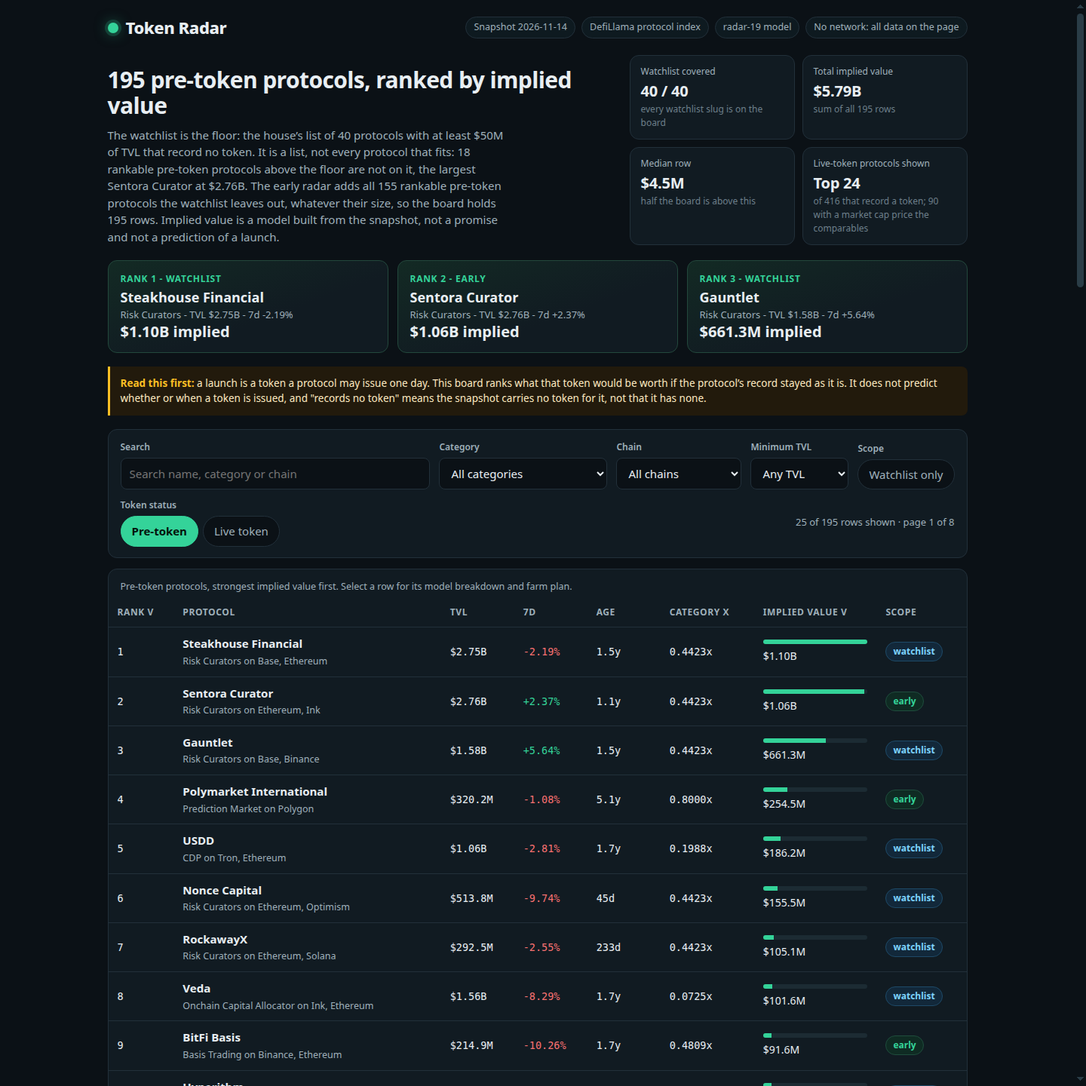
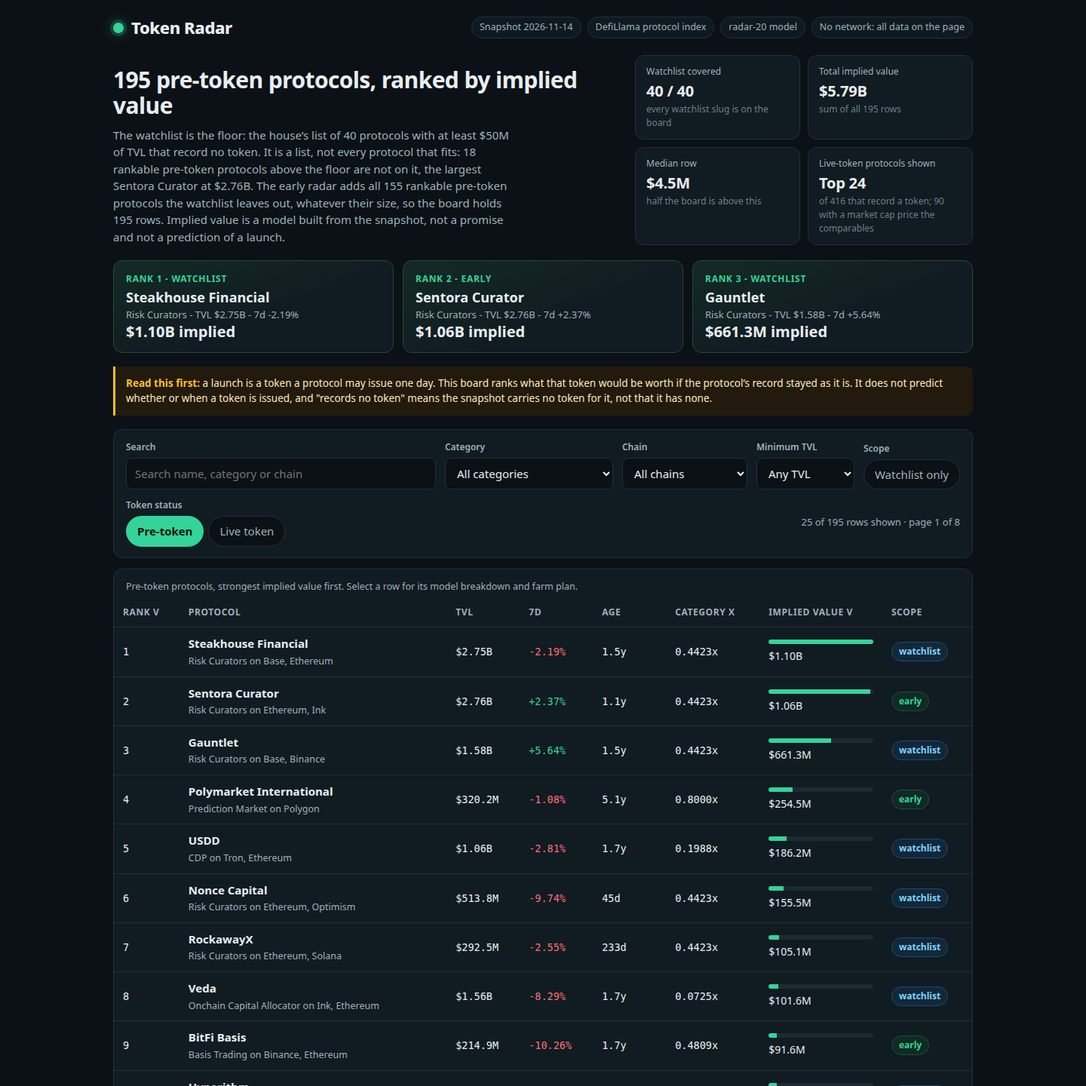
Token Radar radar-20: fix wrong-asset farm plans — CDP collateral per protocol, plus avETH, Origami, Boros, Granite, Solv and Exponent

diff --git a/lib/model.ts b/lib/model.ts
@@ -1,4 +1,4 @@
-// Token Radar's model (radar-19): one sealed snapshot in, one ranked board out.
+// Token Radar's model (radar-20): one sealed snapshot in, one ranked board out.
 //
 // The board covers every slug in the snapshot's watchlist (the floor, never a
 // ceiling) plus every other rankable pre-token protocol the watchlist leaves
@@ -122,7 +122,7 @@ export const MODEL: ModelConstants = {
 };
 
 /** The model's version label: the dashboard names it. */
-export const MODEL_VERSION = 'radar-19';
+export const MODEL_VERSION = 'radar-20';
 
 /** How many live-token protocols the Live token view carries, by market cap. */
 export const LIVE_ROWS = 24;
@@ -512,6 +512,14 @@ function actionFor(p: SnapshotProtocol, capital: number, chain: string): string 
   if (c.includes('collateral market')) return `Deposit $${capital} of wstETH into a ${name} vault on ${chain}, delegate the collateral to an operator securing a network, and keep the vault shares in your wallet.`;
   if (c.includes('interest rate')) return `Deposit $${capital} of USDC as margin on ${name} on ${chain} and open one small long or short position on a funding-rate market, then hold it to maturity.`;
   if (c.includes('uncollateralized')) return `Deposit $${capital} of USDC into the ${name} credit market on ${chain} to fund uncollateralized loans and keep the yield-bearing receipt token in your wallet.`;
+  // A CDP takes the collateral its own vaults accept, never a stablecoin
+  // by default: seven of the board's CDP rows are corrected in
+  // PLAN_CORRECTIONS below (Felix takes HYPE, Bucket SUI, BIMA and BTCFi
+  // BTC, Kava Mint BTC, Monolith ETH, Swan DAO wstETH), and the eighth,
+  // STRATO, stays on this wording because its own litepaper lists USDC as
+  // an accepted CDP collateral at 90% LTV — the one CDP row where the
+  // generic asset is genuinely accepted. A lender takes USDC the same way:
+  // supplying a stablecoin to a lending market is the standard action.
   if (c.includes('lend') || c.includes('cdp') || c.includes('collateral')) return `Supply $${capital} of USDC to ${name} on ${chain} as collateral and borrow a small amount against it, then repay the borrow.`;
   if (c === 'dexs') return `Provide $${capital} of liquidity to ${name}'s main pool on ${chain} in a balanced pair and keep the position open.`;
   // A leveraged vault is not a pool: 3F loops tokenized RWAs through
@@ -933,6 +941,138 @@ const PLAN_CORRECTIONS: Record<string, PlanCorrection> = {
   'polymarket-international': {
     why: 'The prediction shape would send its farmer to a "market rewards page" to claim — but Polymarket runs no points program and has no token claim page; its rewards are Liquidity Rewards and Holding Rewards, paid in pUSD.',
     claim: (p) => `Check ${p.name}'s own rewards page for the liquidity rewards and holding yield it pays in pUSD — there is no points program and no token claim page; if a token is ever announced, claim only from the link the official site publishes, never from a link in a message.`,
+  },
+  // Felix CDP is a Liquity V2 fork on Hyperliquid: its CDP branches take
+  // WHYPE, kHYPE, wstHYPE and UBTC as collateral to mint feUSD — 93% of
+  // its collateral is HYPE-family — never USDC. The CDP shape would tell
+  // its farmer to supply USDC as collateral, an asset no Felix branch
+  // takes. (Felix risk report, Nov 2026: four branches, WHYPE/kHYPE/
+  // wstHYPE/UBTC; coinlaunch: "deposit HYPE or UBTC and mint feUSD".)
+  'felix-cdp': {
+    why: 'DefiLlama lists Felix CDP under CDP, so the CDP shape would tell its farmer to supply USDC as collateral — but Felix\u2019s CDP takes HYPE (WHYPE, kHYPE, wstHYPE) and UBTC to mint feUSD, never USDC.',
+    action: (p, capital, chain) => `Deposit $${capital} of HYPE (wrapped as WHYPE) into a ${p.name} trove on ${chain} to mint feUSD and keep the feUSD in your wallet.`,
+  },
+  // Bucket CDP is Sui's CDP stablecoin: its vaults take SUI, BTC, ETH and
+  // liquid staking tokens as collateral to mint BUCK, never USDC. The CDP
+  // shape would tell its farmer to supply USDC as collateral, an asset no
+  // Bucket vault takes. (Bucket docs via Crypto Daily / Backpack.)
+  'bucket-cdp': {
+    why: 'DefiLlama lists Bucket CDP under CDP, so the CDP shape would tell its farmer to supply USDC as collateral — but Bucket\u2019s CDP takes SUI, BTC, ETH and liquid staking tokens to mint BUCK, never USDC.',
+    action: (p, capital, chain) => `Deposit $${capital} of SUI into a ${p.name} vault on ${chain} to mint BUCK and keep the BUCK in your wallet.`,
+  },
+  // BIMA CDP mints USBD, a stablecoin over-collateralized by Bitcoin
+  // derivatives at a 150% minimum ratio: users deposit BTC directly or
+  // stake it for a Bitcoin LST and place that in a vault, never USDC.
+  // (BIMA mainnet announcement, Apr 2025.)
+  'bima-cdp': {
+    why: 'DefiLlama lists BIMA CDP under CDP, so the CDP shape would tell its farmer to supply USDC as collateral — but BIMA\u2019s vaults take BTC and Bitcoin LSTs to mint USBD, never USDC.',
+    action: (p, capital, chain) => `Deposit $${capital} of BTC into a ${p.name} vault on ${chain} to mint USBD and keep the USBD in your wallet.`,
+  },
+  // Kava Mint is Kava's CDP: its variable collateral is BTC, BNB, ATOM,
+  // KAVA and XRP, minted into USDX — USDC is not a collateral type. The
+  // CDP shape would tell its farmer to supply USDC as collateral, an
+  // asset Kava Mint does not take. (Kava Mint docs; Bitcoin Credit Stack.)
+  'kava-mint': {
+    why: 'DefiLlama lists Kava Mint under CDP, so the CDP shape would tell its farmer to supply USDC as collateral — but Kava Mint takes BTC, BNB, ATOM, KAVA and XRP as collateral to mint USDX, never USDC.',
+    action: (p, capital, chain) => `Deposit $${capital} of BTC into a ${p.name} vault on ${chain} to mint USDX and keep the USDX in your wallet.`,
+  },
+  // Monolith Market is Inverse Finance's permissionless factory for
+  // single-collateral stablecoins: each lending market takes one
+  // collateral type, ETH or wBTC, and lends its Coin stablecoin against
+  // it — USDC is only a peg-stability asset, never borrower collateral.
+  // Round 17 settled Monolith's category as right and the CDP shape as
+  // fitting; the category was right, the shape's named asset was not.
+  // (ChainSecurity audit of Monolith, Apr 2026.)
+  'monolith-market': {
+    why: 'DefiLlama lists Monolith Market under CDP, so the CDP shape would tell its farmer to supply USDC as collateral — but Monolith\u2019s lending markets take ETH or wBTC as collateral to borrow its Coin stablecoin, never USDC.',
+    action: (p, capital, chain) => `Deposit $${capital} of ETH into a ${p.name} lending market on ${chain} to borrow its Coin stablecoin against the collateral and keep the Coin in your wallet.`,
+  },
+  // BTCFi CDP mints BtcUSD, a stablecoin backed by Bitcoin as its
+  // exclusive collateral: users deposit BTC (or WBTC / BTCBA) and mint
+  // BtcUSD at 3.5% APY, never USDC. (DefiLlama stablecoin page for
+  // BtcUSD; Bifrost / Stacks announcements.)
+  'btcfi-cdp': {
+    why: 'DefiLlama lists BTCFi CDP under CDP, so the CDP shape would tell its farmer to supply USDC as collateral — but BTCFi takes Bitcoin as its exclusive collateral to mint BtcUSD, never USDC.',
+    action: (p, capital, chain) => `Deposit $${capital} of BTC into a ${p.name} vault on ${chain} to mint BtcUSD and keep the BtcUSD in your wallet.`,
+  },
+  // Swan DAO's swanUSD is a wstETH-backed stablecoin on a single-
+  // collateral Monolith lender: borrowers mint swanUSD against wstETH at
+  // up to 85% of collateral value. The USDS in its peg-stability module
+  // is a stability reserve, explicitly not borrower collateral — and
+  // neither is USDC. (Pharos swanUSD risk profile, Oct 2026; Inverse
+  // Finance forum: add sSwanUSD as collateral on FiRM.)
+  'swan-dao': {
+    why: 'DefiLlama lists Swan DAO under CDP, so the CDP shape would tell its farmer to supply USDC as collateral — but Swan DAO\u2019s swanUSD is minted against wstETH in a single-collateral Monolith lender, never USDC.',
+    action: (p, capital, chain) => `Deposit $${capital} of wstETH into a ${p.name} vault on ${chain} to mint swanUSD and keep the swanUSD in your wallet.`,
+  },
+  // Avant avETH is the Ether family of Avant Protocol: avETH is backed
+  // 1:1 by ETH and direct minting accepts ETH or WETH — USDC is the
+  // backing of the sibling avUSD family, not this one. The yield shape
+  // would tell its farmer to deposit USDC into the avETH vault, an asset
+  // it does not take. (Avant docs via avnat.trade; Bitrue: avETH backed
+  // 1:1 by ETH.)
+  'avant-aveth': {
+    why: 'DefiLlama lists Avant avETH under Onchain Capital Allocator, so the yield shape would tell its farmer to deposit USDC into its vault — but avETH is backed 1:1 by ETH and mints against ETH or WETH, never USDC (USDC backs the sibling avUSD).',
+    action: (p, capital, chain) => `Deposit $${capital} of ETH into ${p.name} on ${chain} to mint avETH and keep the avETH in your wallet.`,
+  },
+  // Origami Finance's leveraged vaults take the yield-bearing asset
+  // itself and loop it through lending markets: lovUSDe takes USDe,
+  // lovOlympus takes OHM, lovInfrared takes iBERA and other LSTs, and
+  // the flagship vaults are named for their asset. The leveraged-farming
+  // shape would tell its farmer to deposit USDC into a leveraged vault,
+  // which is not how any of the named vaults take a deposit.
+  // (Origami Finance docs; Lark Davis, May 2024.)
+  'origami-finance': {
+    why: 'DefiLlama lists Origami Finance under Leveraged Farming, so the leveraged-farming shape would tell its farmer to deposit USDC into a leveraged vault — but Origami\u2019s vaults take the yield-bearing asset itself (USDe, sUSDe, OHM, iBERA), never a USDC deposit.',
+    action: (p, capital, chain) => `Deposit $${capital} of USDe into an ${p.name} leveraged vault on ${chain} and keep the vault receipt token in your wallet.`,
+  },
+  // Boros is Pendle's rate-trading platform on margin: a position's
+  // margin is posted in the market's own collateral asset — ETH for an
+  // ETH funding-rate market, BTC for a BTC one — never USDC. The
+  // interest-rate shape would tell its farmer to deposit USDC as margin,
+  // an asset no Boros market takes as margin. (Pendle docs: Boros
+  // overview; the worked example posts 1.65 ETH of margin on a
+  // YU-ETHUSDC market.)
+  boros: {
+    why: 'DefiLlama lists Boros under Interest Rate Derivatives, so the interest-rate shape would tell its farmer to deposit USDC as margin — but Boros margin is posted in the market\u2019s own collateral asset (ETH for an ETH funding-rate market), never USDC.',
+    action: (p, capital, chain) => `Deposit $${capital} of ETH as margin on ${p.name} on ${chain} and open one small long or short position on a funding-rate market, then hold it to maturity.`,
+  },
+  // Granite is a Bitcoin lending market on Stacks with a single market:
+  // borrowers post sBTC as collateral and borrow USDCx stablecoins
+  // against it at up to 50% LTV, while liquidity providers earn yield by
+  // depositing USDCx. The lending shape would tell its farmer to supply
+  // USDC "as collateral and borrow against it" — in Granite the
+  // stablecoin is the borrowed asset, never the collateral. (Granite /
+  // Borrow on Bitcoin.)
+  granite: {
+    why: 'DefiLlama lists Granite under Lending, so the lending shape would tell its farmer to supply USDC as collateral and borrow against it — but Granite\u2019s single market takes sBTC as collateral and lends USDCx; the stablecoin is the borrowed asset, never the collateral.',
+    action: (p, capital, chain) => `Deposit $${capital} of sBTC into ${p.name} on ${chain} as collateral and borrow a small amount of USDCx against it, then repay the borrow.`,
+  },
+  // Solv Strategies is Solv Protocol's Bitcoin-native yield vault: its
+  // flagship BTC+ vault takes SolvBTC — minted 1:1 by depositing BTC or
+  // wBTC — and allocates it across yield strategies. The yield shape
+  // would tell its farmer to deposit USDC into the vault, an asset Solv's
+  // strategies do not take. (Solv docs via Binance Square; BTCC: mint
+  // SolvBTC by depositing BTC or wBTC.)
+  'solv-strategies': {
+    why: 'DefiLlama lists Solv Strategies under Onchain Capital Allocator, so the yield shape would tell its farmer to deposit USDC into its vault — but Solv\u2019s strategies are Bitcoin-native: deposits are BTC, minted into SolvBTC, never USDC.',
+    action: (p, capital, chain) => `Deposit $${capital} of BTC into a ${p.name} vault on ${chain} to receive SolvBTC and hold it in your wallet.`,
+  },
+  // Exponent Yield Exchange is a yield exchange, not a vault: it splits a
+  // yield-bearing asset (JitoSOL, mSOL, ONyc) into a fixed-rate principal
+  // token (PT) and a yield token (YT) that trade to maturity. The yield
+  // shape would tell its farmer to deposit USDC into a vault and keep
+  // vault shares — there is no USDC vault to deposit into, and a PT is
+  // held to maturity, not restaked weekly. So the action, the weekly
+  // action, the number worth logging, the claim and the exit are all
+  // corrected here. (Exponent docs; CoinCodeCap review.)
+  'exponent-yield-exchange': {
+    why: 'DefiLlama lists Exponent Yield Exchange under Yield, so the yield shape would tell its farmer to deposit USDC into a vault — but Exponent\u2019s Yield Exchange is an exchange, not a vault: it splits a yield-bearing asset into a principal token and a yield token, and there is no USDC vault to deposit into.',
+    action: (p, capital, chain) => `Swap $${capital} of JitoSOL for its fixed-rate principal token (PT) on ${p.name} on ${chain} and hold the PT to maturity for the fixed yield.`,
+    weekly: (p) => `Check the PT's fixed rate and maturity date on ${p.name} each week and hold it — the rate is locked at purchase, so there is nothing to rebalance.`,
+    track: (p) => `Track the position weekly in a farm log for ${p.name} with the wallet address, the dates and every transaction hash, and note the PT balance, the fixed rate it locked in and the maturity date.`,
+    claim: (p) => `A PT redeems for the underlying asset at maturity, so there is no rewards page to claim from — check the redemption on the official ${p.name} page at maturity, and never pay to claim or follow a claim link in a message.`,
+    exit: (p) => `If a token launches, claim within the first week, sell half at once and keep the rest for 30 days, then hold the PT to maturity and redeem it for the underlying asset on ${p.name}, close the log and retire the wallet.`,
   },
 };
 

diff --git a/dashboard/app.js b/dashboard/app.js
@@ -1,4 +1,4 @@
-// Token Radar's dashboard (radar-19). It reads window.RADAR (written beside
+// Token Radar's dashboard (radar-20). It reads window.RADAR (written beside
 // dashboard/ by main.ts from the same board.json) and renders the ranked
 // board, the filters, a per-protocol detail view with the model's own
 // breakdown and the protocol's farm plan, and the live-token set kept apart.
@@ -438,7 +438,7 @@
       el('h2', { text: 'How implied value is computed' }),
       el('p', { class: 'sub', text: 'Every row is scored by one function of the snapshot figures. The scoring never special-cases a protocol name, and no row is hand-picked. The comparable is the median market-cap-to-TVL ratio of the live-token protocols in the same category, computed from this snapshot at run time, then shrunk toward the market median in log space with a weight of ' + m.shrink_peers + ' peers: ratios multiply, so the shrinkage averages logarithms, and the raw median is never clamped before shrinking. A category with one live peer never prices at its peer\'s ratio, and a category with no live peer uses the market median outright.' }),
       el('p', { class: 'sub', text: 'The shrinkage is not a guess at a weight: ' + thin + ' of the ' + thinTotal + ' categories priced here have fewer than three live peers, so most multiples would rest on one or two protocols without it. Shrinking in log space matters because the old arithmetic shrink clamped the raw median first: seven single-peer categories, from Options at 1.51x to Prediction Market at 400.20x, all priced at one identical multiple, and a category whose peers trade at 0.002x was lifted to the market by the floor. Now each prices from its own peer, still pulled most of the way to the market, and still capped. With no shrinkage the Risk Curators rows would all price at the 0.80 cap on a single peer; shrunk, they price at ' + (DATA.multiples['Risk Curators'] === undefined ? 'the market median' : DATA.multiples['Risk Curators'].toFixed(4) + 'x') + '.' }),
-      el('p', { class: 'sub', text: 'Farm plans follow the protocol\u2019s category — except where the snapshot\u2019s own record mislabels the protocol, and then the plan follows the protocol\u2019s own documentation instead. Eight plans are corrected that way, in one table in the code: Hive Protocol is B\u00b2 Hive, a BTC staking pool listed as a chain, so its plan stakes BTC for B2 rewards; Firelight is the underwriting side of a cover design listed as insurance, so its plan stakes FXRP for stXRP; Mezo Earn locks BTC for a veBTC vote, not USDC in a governance vault; Abstract is its own Ethereum L2, not Ethereum mainnet, so its plan runs on Abstract; USDD\u2019s vaults take TRX, USDT or WBTC as collateral, never USDC, and its yield comes from sUSDD; DeFi Saver is a management layer that takes no deposits, so its plan opens a position through it and automates it; Bittensor dTAO is a staking system, not an AMM pool, so its plan stakes TAO for alpha; and Polymarket runs no points program, so its plan checks the rewards page that pays in pUSD instead of a claim page. The scoring never names a protocol; these eight are plan corrections, not a hardcoded ranking.' }),
+      el('p', { class: 'sub', text: 'Farm plans follow the protocol\u2019s category — except where the snapshot\u2019s own record mislabels the protocol, and then the plan follows the protocol\u2019s own documentation instead. Twenty-one plans are corrected that way, in one table in the code: Hive Protocol is B\u00b2 Hive, a BTC staking pool listed as a chain, so its plan stakes BTC for B2 rewards; Firelight is the underwriting side of a cover design listed as insurance, so its plan stakes FXRP for stXRP; Mezo Earn locks BTC for a veBTC vote, not USDC in a governance vault; Abstract is its own Ethereum L2, not Ethereum mainnet, so its plan runs on Abstract; USDD\u2019s vaults take TRX, USDT or WBTC as collateral, never USDC, and its yield comes from sUSDD; DeFi Saver is a management layer that takes no deposits, so its plan opens a position through it and automates it; Bittensor dTAO is a staking system, not an AMM pool, so its plan stakes TAO for alpha; and Polymarket runs no points program, so its plan checks the rewards page that pays in pUSD instead of a claim page. Thirteen more join them in this round: seven CDP plans named USDC as collateral where the vaults take something else — Felix takes HYPE to mint feUSD, Bucket takes SUI to mint BUCK, BIMA and BTCFi take BTC to mint USBD and BtcUSD, Kava Mint takes BTC to mint USDX, Monolith takes ETH to borrow Coin, and Swan DAO takes wstETH to mint swanUSD — and six more shapes named the wrong asset: Avant avETH mints against ETH, not USDC; Origami\u2019s leveraged vaults take the yield-bearing asset itself, USDe; Boros margin is the market\u2019s own asset, ETH; Granite takes sBTC as collateral and lends USDCx; Solv Strategies takes BTC for SolvBTC; and Exponent Yield Exchange is an exchange, not a vault, so its plan swaps a yield-bearing asset for its principal token instead of depositing USDC. The eighth CDP row, STRATO, stays on the generic wording because its own litepaper lists USDC as an accepted CDP collateral at 90% LTV. The scoring never names a protocol; these twenty-one are plan corrections, not a hardcoded ranking.' }),
       el('div', { class: 'formula' },
         'multiple = exp((peers x ln(categoryMedian) + ' + m.shrink_peers + ' x ln(marketMedian)) / (peers + ' + m.shrink_peers + ')), clamped to [' + m.multiple_floor + ', ' + m.multiple_cap + ']'
       ),

diff --git a/main.ts b/main.ts
@@ -1,4 +1,4 @@
-// Token Radar (radar-19): the entry program, Node 22, standard library only.
+// Token Radar (radar-20): the entry program, Node 22, standard library only.
 //
 // It reads the sealed snapshot from /input/snapshot.json (or --input
 // <file|dir>), scores every rankable pre-token protocol with the model in

diff --git a/README.md b/README.md
@@ -6,6 +6,52 @@ staked or bridged product of one that trades, ranks them by what their launch
 would be worth, and hands in a web dashboard with the board, a detail view
 for every protocol, filters, and a farm plan for each row.
 
+## The model (radar-20)
+
+Radar-20 keeps radar-19's formula and every implied value, and fixes the
+farm plans the category shapes got wrong by naming the wrong asset — the
+fifth miscategorization round, and the one round 16 deliberately left
+open. First, the CDP shape: it told all eight non-USDD CDP rows to supply
+USDC as collateral, but a CDP takes the collateral its own vaults accept,
+and USDC is the thing you borrow, not the thing you deposit — so seven of
+the eight were wrong, each now corrected in PLAN_CORRECTIONS against the
+protocol's own record: Felix CDP takes HYPE (WHYPE, kHYPE, wstHYPE) and
+UBTC to mint feUSD; Bucket CDP takes SUI, BTC, ETH and liquid staking
+tokens to mint BUCK; BIMA CDP takes BTC and Bitcoin LSTs to mint USBD at
+150%; Kava Mint takes BTC, BNB, ATOM, KAVA and XRP to mint USDX; Monolith
+Market takes ETH or wBTC to borrow its Coin stablecoin; BTCFi CDP takes
+Bitcoin as its exclusive collateral to mint BtcUSD; and Swan DAO's swanUSD
+is minted against wstETH in a single-collateral Monolith lender (the USDS
+in its peg module is a stability reserve, not borrower collateral). The
+eighth, STRATO CDP, stays on the generic wording: its own litepaper lists
+USDC as an accepted CDP collateral at 90% LTV, so the generic asset is
+genuinely accepted there. Round 17's settlement of Monolith was wrong on
+this point — its category was right, but the shape's named asset was not —
+and it is corrected here. Second, the same wrong-asset audit across every
+other shape that names a specific asset found six more: Avant avETH mints
+against ETH or WETH, never USDC (USDC backs the sibling avUSD); Origami
+Finance's leveraged vaults take the yield-bearing asset itself, USDe for
+the flagship lovUSDe vault, never a USDC deposit; Boros margin is posted
+in the market's own collateral asset, ETH for an ETH funding-rate market,
+never USDC; Granite takes sBTC as collateral and lends USDCx, so the
+stablecoin is the borrowed asset, never the collateral; Solv Strategies is
+Bitcoin-native, deposits are BTC minted into SolvBTC, never USDC; and
+Exponent Yield Exchange is a yield exchange, not a vault — it splits a
+yield-bearing asset into a principal token and a yield token — so its plan
+now swaps JitoSOL for its principal token and holds it to maturity, with
+the weekly action, the number worth logging, the claim and the exit
+corrected to match. The audit also cleared the shapes it checked and left
+alone: 3F's stablecoin-depositor side is real (its vaults deliver yield to
+stablecoin depositors), BounceBit Prime takes fiat or stablecoin deposits
+including USDC, the lending rows supply USDC to multi-asset markets as
+standard, perp margin is USDC across the board, and the Exponent strategy
+vaults and risk tranches were left alone because no single deposit asset
+could be verified for them — a correction there would repeat the
+speculative failure mode this round guards against. The board is
+unchanged: same 195 rows, same ranks, same implied values; only farm
+plans move, on 13 rows, and the screenshots are retaken for the radar-20
+label.
+
 ## The model (radar-19)
 
 Radar-19 keeps radar-18's formula and every implied value, and fixes the
@@ -368,7 +414,7 @@ rows whose first chain was not a household name name a verified token,
 Tempo names a USD stablecoin because it has no native gas token, and Proton
 says transactions carry no gas fee because it charges none. No row is left
 on the generic wording: BSquared is settled (BTC on the rollup, where the
-farm runs; B2 is gas only on the Hub). Eight plans are corrected against the
+farm runs; B2 is gas only on the Hub). Twenty-one plans are corrected against the
 snapshot's own record, in one table (see Snapshot corrections below): Hive
 Protocol is B² Hive, the network's own BTC staking pool, not a chain, so its
 plan stakes BTC for B2 rewards instead of bridging onto a network; Firelight
@@ -382,7 +428,7 @@ DeFi Saver is a management layer that takes no deposits, so its plan opens a
 position through it and automates it; Bittensor dTAO is a staking system, not
 an AMM pool, so its plan stakes TAO for alpha; and Polymarket runs no points
 program, so its plan checks the rewards page that pays in pUSD instead of a
-claim page. Eight plans in all. The weekly action, the number worth
+claim page. Twenty-one plans in all. The weekly action, the number worth
 logging, the page that would carry a
 claim and the way the position unwinds are all shaped by the category, so a
 lender, a pool and a vault do not farm the same way. Every one of the 32
@@ -400,7 +446,7 @@ them at (flat, and 365 days), never as the oldest or the fastest.
 
 ## Snapshot corrections
 
-Eight farm plans follow the protocol's own documentation instead of the
+Twenty-one farm plans follow the protocol's own documentation instead of the
 snapshot's category, because the snapshot's record mislabels the protocol.
 They live in one table, PLAN_CORRECTIONS in lib/model.ts, keyed by slug,
 each entry stating why the record is wrong and giving only the steps the
@@ -452,6 +498,75 @@ and the scoring never names a protocol.
   no points program and has no token claim page; its rewards are
   Liquidity Rewards and Holding Rewards, paid in pUSD. Only the claim
   step is corrected (Polymarket docs; TraderComps, Oct 2026).
+- Felix CDP (rank 124): DefiLlama lists it under CDP, and the CDP shape
+  would tell its farmer to supply USDC as collateral — but Felix's CDP
+  branches take WHYPE, kHYPE, wstHYPE and UBTC to mint feUSD, never
+  USDC, so its plan deposits HYPE (wrapped as WHYPE) into a trove to
+  mint feUSD.
+- Bucket CDP (rank 138): DefiLlama lists it under CDP, and the CDP shape
+  would tell its farmer to supply USDC as collateral — but Bucket's CDP
+  takes SUI, BTC, ETH and liquid staking tokens to mint BUCK, never
+  USDC, so its plan deposits SUI to mint BUCK.
+- BIMA CDP (rank 160): DefiLlama lists it under CDP, and the CDP shape
+  would tell its farmer to supply USDC as collateral — but BIMA's vaults
+  take BTC and Bitcoin LSTs to mint USBD at a 150% minimum ratio, never
+  USDC, so its plan deposits BTC to mint USBD (BIMA mainnet announcement,
+  Apr 2025).
+- Kava Mint (rank 165): DefiLlama lists it under CDP, and the CDP shape
+  would tell its farmer to supply USDC as collateral — but Kava Mint
+  takes BTC, BNB, ATOM, KAVA and XRP as collateral to mint USDX, never
+  USDC, so its plan deposits BTC to mint USDX.
+- Monolith Market (rank 166): DefiLlama lists it under CDP, and the CDP
+  shape would tell its farmer to supply USDC as collateral — but
+  Monolith's lending markets take ETH or wBTC as collateral to borrow its
+  Coin stablecoin, never USDC, so its plan deposits ETH to borrow Coin
+  (ChainSecurity audit, Apr 2026). Round 17 settled this row's category
+  as right and the shape as fitting; the category was right, the shape's
+  named asset was not.
+- BTCFi CDP (rank 177): DefiLlama lists it under CDP, and the CDP shape
+  would tell its farmer to supply USDC as collateral — but BTCFi takes
+  Bitcoin as its exclusive collateral to mint BtcUSD, never USDC, so its
+  plan deposits BTC to mint BtcUSD.
+- Swan DAO (rank 189): DefiLlama lists it under CDP, and the CDP shape
+  would tell its farmer to supply USDC as collateral — but Swan DAO's
+  swanUSD is minted against wstETH in a single-collateral Monolith
+  lender, never USDC (the USDS in its peg module is a stability reserve,
+  not borrower collateral), so its plan deposits wstETH to mint swanUSD.
+- Avant avETH (rank 173): DefiLlama lists it under Onchain Capital
+  Allocator, and the yield shape would tell its farmer to deposit USDC
+  into its vault — but avETH is backed 1:1 by ETH and mints against ETH
+  or WETH, never USDC (USDC backs the sibling avUSD), so its plan
+  deposits ETH to mint avETH.
+- Origami Finance (rank 91): DefiLlama lists it under Leveraged Farming,
+  and the leveraged-farming shape would tell its farmer to deposit USDC
+  into a leveraged vault — but Origami's vaults take the yield-bearing
+  asset itself (USDe, sUSDe, OHM, iBERA), never a USDC deposit, so its
+  plan deposits USDe into a leveraged vault and keeps the receipt token.
+- Boros (rank 175): DefiLlama lists it under Interest Rate Derivatives,
+  and the interest-rate shape would tell its farmer to deposit USDC as
+  margin — but Boros margin is posted in the market's own collateral
+  asset (ETH for an ETH funding-rate market), never USDC, so its plan
+  deposits ETH as margin (Pendle docs: Boros).
+- Granite (rank 193): DefiLlama lists it under Lending, and the lending
+  shape would tell its farmer to supply USDC as collateral and borrow
+  against it — but Granite's single market takes sBTC as collateral and
+  lends USDCx, so the stablecoin is the borrowed asset, never the
+  collateral, and its plan deposits sBTC to borrow USDCx.
+- Solv Strategies (rank 110): DefiLlama lists it under Onchain Capital
+  Allocator, and the yield shape would tell its farmer to deposit USDC
+  into its vault — but Solv's strategies are Bitcoin-native, deposits
+  are BTC minted into SolvBTC, never USDC, so its plan deposits BTC to
+  receive SolvBTC.
+- Exponent Yield Exchange (rank 72): DefiLlama lists it under Yield, and
+  the yield shape would tell its farmer to deposit USDC into a vault —
+  but Exponent's Yield Exchange is an exchange, not a vault: it splits a
+  yield-bearing asset into a principal token and a yield token, so its
+  plan swaps JitoSOL for its fixed-rate principal token and holds it to
+  maturity, with the weekly action, the number worth logging, the claim
+  and the exit corrected to match. STRATO CDP (rank 161) is the one CDP
+  row left on the generic wording: its own litepaper lists USDC as an
+  accepted CDP collateral at 90% LTV, so the generic asset is genuinely
+  accepted there.
 
 ## Run it
 
